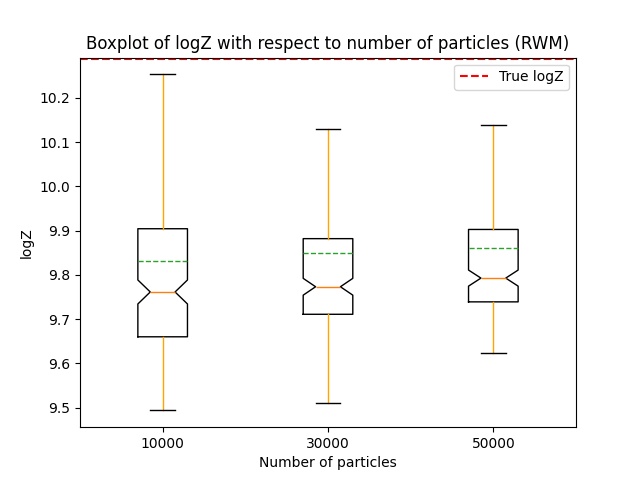
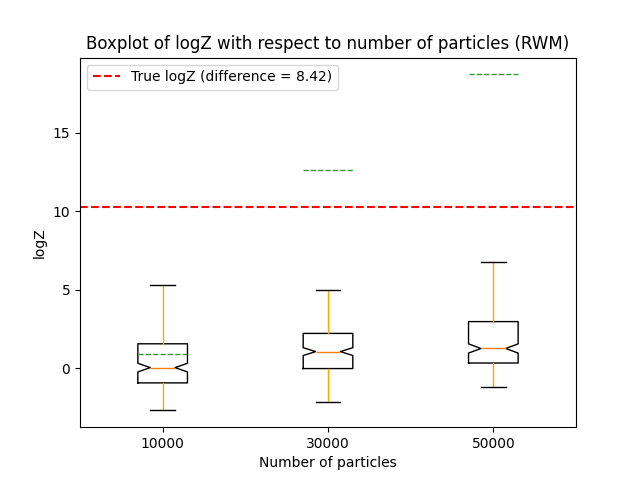
new test

diff --git a/notebooks/sequential_mc/smc_analysis.py b/notebooks/sequential_mc/smc_analysis.py
@@ -155,52 +155,53 @@ coefs = jnp.arange(N+1)/N
 # --------------------------- Test With Funnel target ---------------------------
 dim = 2
 mu_0 = jnp.zeros(dim)
-sigma_0 = 1.
+sigma_0 = 10.
 log_var_0 = jnp.log(sigma_0**2)
-# log_gamma_0 = IsotropicGauss(mu=mu_0, log_var=log_var_0)
+log_gamma_0 = IsotropicGauss(mu=mu_0, log_var=log_var_0)
 # ------------------ Randomly select params for 5 components of mixed gaussian --------------------------
-key, key1, key2, key3 = jr.split(key,4)
-K = 40
-mu = jax.random.normal(key1, shape=(K, dim))*10-10
-dist_sigma = jax.random.uniform(
-    key2,
-    shape=(K,),
-    minval=0.1,
-    maxval=1.0
-)
-log_var = jnp.log(dist_sigma ** 2)
-weights = jax.random.dirichlet(key3, alpha=jnp.ones((K,)))
-log_gamma_0 = MixedIsotropicGauss(mu=mu, log_var=log_var, weights=weights)
-log_gamma_T = NealFunnel(dim=dim)
-key, key_ = jr.split(key)
-smc_test(log_gamma_0, log_gamma_T, num_particles_arr, key_, method='RWM', target='Funnel')
-key, key_ = jr.split(key)
-smc_test(log_gamma_0, log_gamma_T, num_particles_arr, key_, method='MALA', target='Funnel')
-
-dim = 10
-mu_0 = jnp.zeros(dim)
-sigma_0 = 1.
-log_var_0 = jnp.log(sigma_0**2)
-# log_gamma_0 = IsotropicGauss(mu=mu_0, log_var=log_var_0) # one component
-# ------------------ Randomly select params for 5 components of mixed gaussian --------------------------
-key, key1, key2, key3 = jr.split(key,4)
-K = 40
-mu = jax.random.normal(key1, shape=(K, dim))*10-10
-dist_sigma = jax.random.uniform(
-    key2,
-    shape=(K,),
-    minval=0.1,
-    maxval=1.0
-)
-log_var = jnp.log(dist_sigma ** 2)
-weights = jax.random.dirichlet(key3, alpha=jnp.ones((K,)))
-log_gamma_0 = MixedIsotropicGauss(mu=mu, log_var=log_var, weights=weights)
+# key, key1, key2, key3 = jr.split(key,4)
+# K = 40
+# mu = jax.random.normal(key1, shape=(K, dim))*10-10
+# dist_sigma = jax.random.uniform(
+#     key2,
+#     shape=(K,),
+#     minval=0.1,
+#     maxval=1.0
+# )
+# log_var = jnp.log(dist_sigma ** 2)
+# weights = jax.random.dirichlet(key3, alpha=jnp.ones((K,)))
+# log_gamma_0 = MixedIsotropicGauss(mu=mu, log_var=log_var, weights=weights)
 
 log_gamma_T = NealFunnel(dim=dim)
 key, key_ = jr.split(key)
 smc_test(log_gamma_0, log_gamma_T, num_particles_arr, key_, method='RWM', target='Funnel')
 key, key_ = jr.split(key)
 smc_test(log_gamma_0, log_gamma_T, num_particles_arr, key_, method='MALA', target='Funnel')
+
+# dim = 10
+# mu_0 = jnp.zeros(dim)
+# sigma_0 = 1.
+# log_var_0 = jnp.log(sigma_0**2)
+# # log_gamma_0 = IsotropicGauss(mu=mu_0, log_var=log_var_0) # one component
+# # ------------------ Randomly select params for 5 components of mixed gaussian --------------------------
+# key, key1, key2, key3 = jr.split(key,4)
+# K = 40
+# mu = jax.random.normal(key1, shape=(K, dim))*10-10
+# dist_sigma = jax.random.uniform(
+#     key2,
+#     shape=(K,),
+#     minval=0.1,
+#     maxval=1.0
+# )
+# log_var = jnp.log(dist_sigma ** 2)
+# weights = jax.random.dirichlet(key3, alpha=jnp.ones((K,)))
+# log_gamma_0 = MixedIsotropicGauss(mu=mu, log_var=log_var, weights=weights)
+
+# log_gamma_T = NealFunnel(dim=dim)
+# key, key_ = jr.split(key)
+# smc_test(log_gamma_0, log_gamma_T, num_particles_arr, key_, method='RWM', target='Funnel')
+# key, key_ = jr.split(key)
+# smc_test(log_gamma_0, log_gamma_T, num_particles_arr, key_, method='MALA', target='Funnel')
 
 # dim = 50
 # mu_0 = jnp.zeros(dim)
